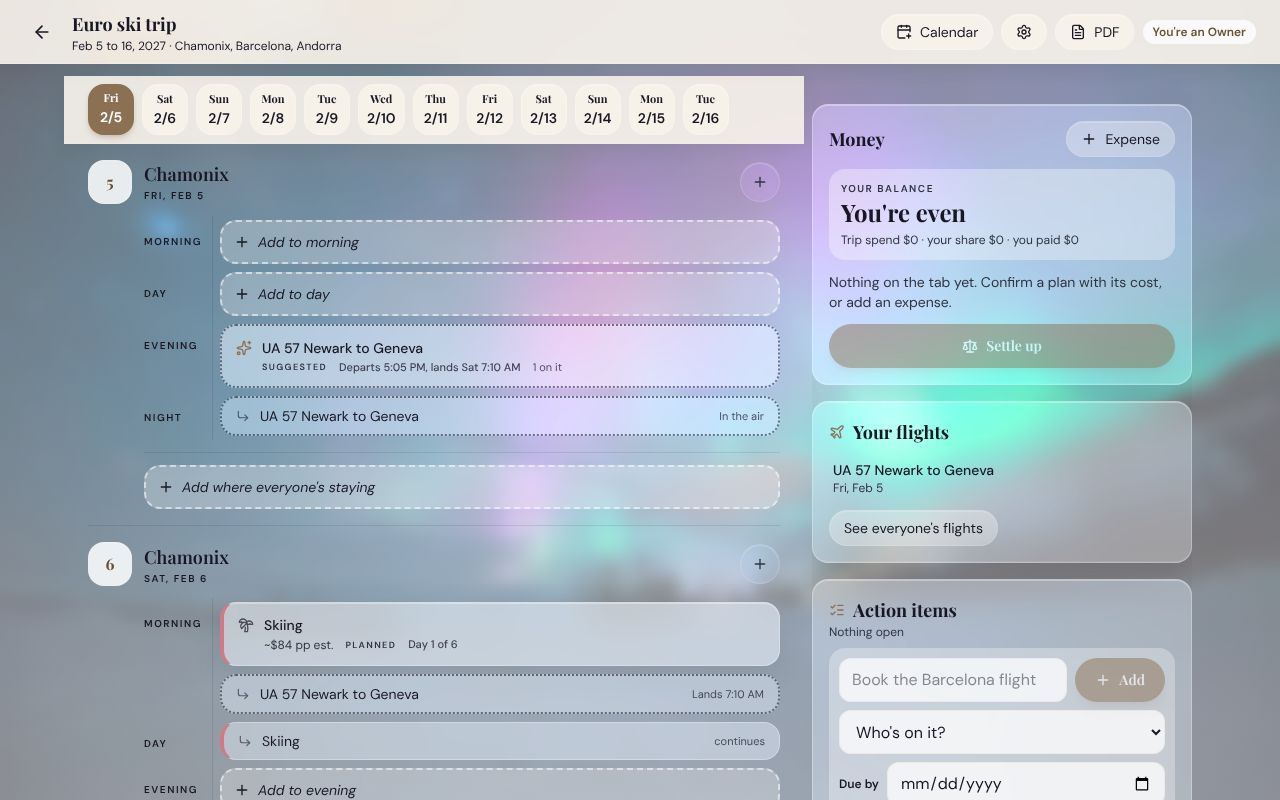
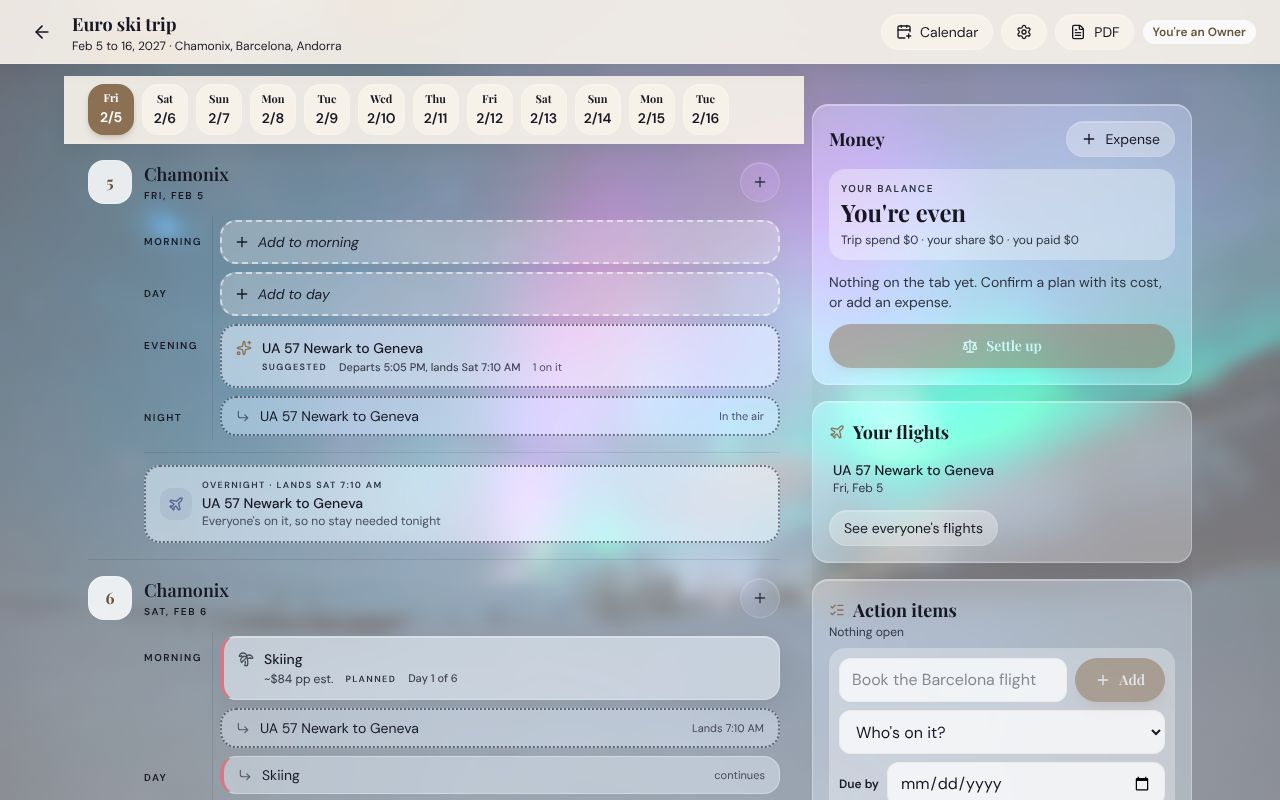
A red-eye night needs no bed for the people on the flight
From the 11/17 pod feedback: the night of an overnight flight (UA 956 Newark
to Geneva, landing 6:25 AM) still asked "Add where everyone's staying".
Now a flight or transfer in the air across a night sits in that night's stay
row ("Overnight · Lands Sat 6:25 AM") with who's on it. With the whole group
aboard there's no prompt for a stay; otherwise the prompt reads "Add a stay
for the others". The week view's Stay row shows it too.

Changed region(s): [[0.0625, 0.5625, 0.625, 1.0], [0.4375, 0.5625, 0.4688, 0.5938]]

diff --git a/app/src/components/trip/Timeline.tsx b/app/src/components/trip/Timeline.tsx
@@ -1,6 +1,7 @@
 import { useEffect, useRef, useState } from "react";
 import { BedDouble, Bus, Check, CornerDownRight, MapPin, Palmtree, Plane, Plus, Sparkles, UtensilsCrossed, type LucideIcon } from "lucide-react";
 import {
+  clock,
   dayChip,
   longDay,
   PART_LABEL,
@@ -31,7 +32,13 @@ export interface TimelineActions {
   isOut?: (item: Item) => boolean;
   /** A short line on the card: "Your share $40", or "3 of 4 in" (Build 3). */
   note?: (item: Item) => string | null;
+  /** Who's on a flight or transfer, and whether that's the whole group: on an overnight one, they need no bed. */
+  aboard?: (item: Item) => { names: string[]; everyone: boolean };
 }
+
+/** "Everyone's on it" covers tonight: no prompt for a stay. */
+const nightCovered = (overnight: Item[], actions: TimelineActions): boolean =>
+  overnight.some((i) => actions.aboard?.(i).everyone);
 
 /** Sticky, horizontally scrolling day chips showing the actual day: "Thu" over "2/5". */
 export function DayChips({ days, active, onPick }: { days: TimelineDay[]; active: string | null; onPick: (d: string) => void }) {
@@ -185,6 +192,34 @@ function StayRow({ stay, actions }: { stay: StayOnDay; actions: TimelineActions 
   );
 }
 
+/** A red-eye or a night train in the stay row: who's on it needs no bed tonight (11/17 pod feedback). */
+function OvernightRow({ item, actions }: { item: Item; actions: TimelineActions }) {
+  const Icon = KIND_ICON[item.kind];
+  const aboard = actions.aboard?.(item);
+  const lands = item.end_day ? `${item.kind === "flight" ? "Lands" : "Arrives"} ${dayChip(item.end_day).weekday}${item.end_time ? ` ${clock(item.end_time)}` : ""}` : null;
+  const who = !aboard
+    ? null
+    : aboard.everyone
+      ? "Everyone's on it, so no stay needed tonight"
+      : aboard.names.length
+        ? `No stay needed for ${aboard.names.join(", ")}`
+        : "No one's on it yet";
+  return (
+    <button type="button" className="item-card" data-kind={item.kind} data-status={item.status} data-testid="overnight" onClick={() => actions.onOpen(item)}>
+      <div className="flex items-center gap-2.5">
+        <span className="grid size-8 shrink-0 place-items-center rounded-xl bg-indigo/10">
+          <Icon className="size-4 text-indigo" />
+        </span>
+        <div className="min-w-0 flex-1">
+          <p className="label-luxury text-[9px] text-muted-foreground">Overnight{lands ? ` · ${lands}` : ""}</p>
+          <p className="truncate text-sm font-medium">{item.title}</p>
+          {who && <p className="text-xs text-foreground/75">{who}</p>}
+        </div>
+      </div>
+    </button>
+  );
+}
+
 function EmptySlot({ label, onClick }: { label: string; onClick: () => void }) {
   return (
     <button
@@ -199,6 +234,7 @@ function EmptySlot({ label, onClick }: { label: string; onClick: () => void }) {
 
 export function DayBlock({ day, last, actions }: { day: TimelineDay; last: boolean; actions: TimelineActions }) {
   const nights = day.stays.filter((s) => !s.checkout);
+  const covered = nightCovered(day.overnight, actions);
   return (
     <section id={`day-${day.date}`} data-date={day.date} className="scroll-mt-32 py-4 sm:scroll-mt-36" aria-label={longDay(day.date)}>
       <header className="mb-3 flex items-center gap-3">
@@ -253,10 +289,16 @@ export function DayBlock({ day, last, actions }: { day: TimelineDay; last: boole
         {day.stays.map((s) => (
           <StayRow key={`${s.item.id}-${s.label}`} stay={s} actions={actions} />
         ))}
-        {nights.length === 0 && !last && actions.canEdit && (
-          <EmptySlot label="Add where everyone's staying" onClick={() => actions.onAdd(day.date, "night", "stay")} />
+        {day.overnight.map((i) => (
+          <OvernightRow key={`overnight-${i.id}`} item={i} actions={actions} />
+        ))}
+        {nights.length === 0 && !last && actions.canEdit && !covered && (
+          <EmptySlot
+            label={day.overnight.length ? "Add a stay for the others" : "Add where everyone's staying"}
+            onClick={() => actions.onAdd(day.date, "night", "stay")}
+          />
         )}
-        {nights.length === 0 && !last && !actions.canEdit && (
+        {nights.length === 0 && !last && !actions.canEdit && !covered && day.overnight.length === 0 && (
           <p className="text-xs italic text-muted-foreground/70">No stay added for tonight</p>
         )}
       </div>

diff --git a/app/src/lib/timeline.ts b/app/src/lib/timeline.ts
@@ -112,6 +112,8 @@ export interface TimelineDay {
   /** For each part, how each plan there shows, by plan id: where it starts, or a continuation. */
   placed: Record<DayPart, Record<string, Placement>>;
   stays: StayOnDay[];
+  /** Flights and transfers in the air or on the road across tonight: a red-eye needs no bed (11/17). */
+  overnight: Item[];
 }
 
 /**
@@ -127,8 +129,12 @@ export function buildTimeline(trip: Pick<Trip, "start_date" | "end_date">, stops
     const parts = Object.fromEntries(PARTS.map((p) => [p, [] as Item[]])) as Record<DayPart, Item[]>;
     const placed = Object.fromEntries(PARTS.map((p) => [p, {} as Record<string, Placement>])) as Record<DayPart, Record<string, Placement>>;
     const stays: StayOnDay[] = [];
+    const overnight: Item[] = [];
 
     for (const item of byCreated) {
+      if ((item.kind === "flight" || item.kind === "transport") && item.day <= date && item.end_day && item.end_day > date) {
+        overnight.push(item);
+      }
       if (item.kind !== "stay") {
         // A plan shows in every slot it covers: its own, and any it runs on into.
         for (const slot of itemSlots(item)) {
@@ -150,7 +156,7 @@ export function buildTimeline(trip: Pick<Trip, "start_date" | "end_date">, stops
     // Check-outs first: the morning's departure reads before the night's stay.
     stays.sort((a, b) => Number(b.checkout) - Number(a.checkout));
 
-    return { date, chip: dayChip(date), title: here.join(" to "), parts, placed, stays };
+    return { date, chip: dayChip(date), title: here.join(" to "), parts, placed, stays, overnight };
   });
 }
 

diff --git a/app/src/lib/timeline.test.ts b/app/src/lib/timeline.test.ts
@@ -117,6 +117,20 @@ describe("the timeline", () => {
     const firsts = days.flatMap((d) => (["morning", "day", "evening", "night"] as const).flatMap((p) => Object.values(d.placed[p]).filter((x) => x.first)));
     expect(firsts).toHaveLength(2);
   });
+
+  it("a red-eye sits in the stay row of the night it's in the air, and no other", () => {
+    const redEye = item({ kind: "flight", title: "UA 956", day: "2027-02-04", part: "evening", end_day: "2027-02-05", end_part: "morning", end_time: "06:25:00" });
+    const sameDay = item({ kind: "flight", title: "EZY 1", day: "2027-02-12", part: "morning", end_part: "day" });
+    const nightTrain = item({ kind: "transport", title: "Night train", day: "2027-02-08", part: "night", end_day: "2027-02-10" });
+    const days = buildTimeline(trip, [], [redEye, sameDay, nightTrain]);
+    const overnight = (d: string) => days.find((x) => x.date === d)!.overnight.map((i) => i.title);
+    expect(overnight("2027-02-04")).toEqual(["UA 956"]);
+    expect(overnight("2027-02-05")).toEqual([]);
+    expect(overnight("2027-02-12")).toEqual([]);
+    expect(overnight("2027-02-08")).toEqual(["Night train"]);
+    expect(overnight("2027-02-09")).toEqual(["Night train"]);
+    expect(overnight("2027-02-10")).toEqual([]);
+  });
 });
 
 describe("checking a spanning plan", () => {

diff --git a/app/src/components/trip/WeekView.tsx b/app/src/components/trip/WeekView.tsx
@@ -123,6 +123,19 @@ export function WeekView({ days, actions }: { days: TimelineDay[]; actions: Time
                     <span className="line-clamp-2 text-[11px] font-medium leading-snug">{s.item.title}</span>
                   </button>
                 ))}
+                {d.overnight.map((i) => (
+                  <button
+                    key={`overnight-${i.id}`}
+                    type="button"
+                    className="item-card !px-1.5 !py-1.5"
+                    data-kind={i.kind}
+                    data-status={i.status}
+                    onClick={() => actions.onOpen(i)}
+                    title={`Overnight: ${i.title}${actions.aboard?.(i).everyone ? ", no stay needed" : ""}`}
+                  >
+                    <span className="line-clamp-2 text-[11px] font-medium leading-snug">{i.title}</span>
+                  </button>
+                ))}
               </div>
             );
           })}

diff --git a/app/src/pages/TripPage.tsx b/app/src/pages/TripPage.tsx
@@ -138,6 +138,10 @@ export default function TripPage() {
         ? (ownLineOf(expenses, item.id, meId)?.total_cents ?? null)
         : (expenseByItem.get(item.id)?.total_cents ?? null),
     isOut: (item) => (meId ? !isGoing(item, meId, itemPeople) : false),
+    aboard: (item) => {
+      const on = goingList(item, travelers, itemPeople);
+      return { names: on.map((t) => (t.id === meId ? "you" : t.name)), everyone: on.length === travelers.length && travelers.length > 0 };
+    },
     note: (item) => {
       if (item.pay_mode === "own") {
         // Everyone pays their own: "Planned, 2 of 5 booked" until everyone going has logged theirs.
